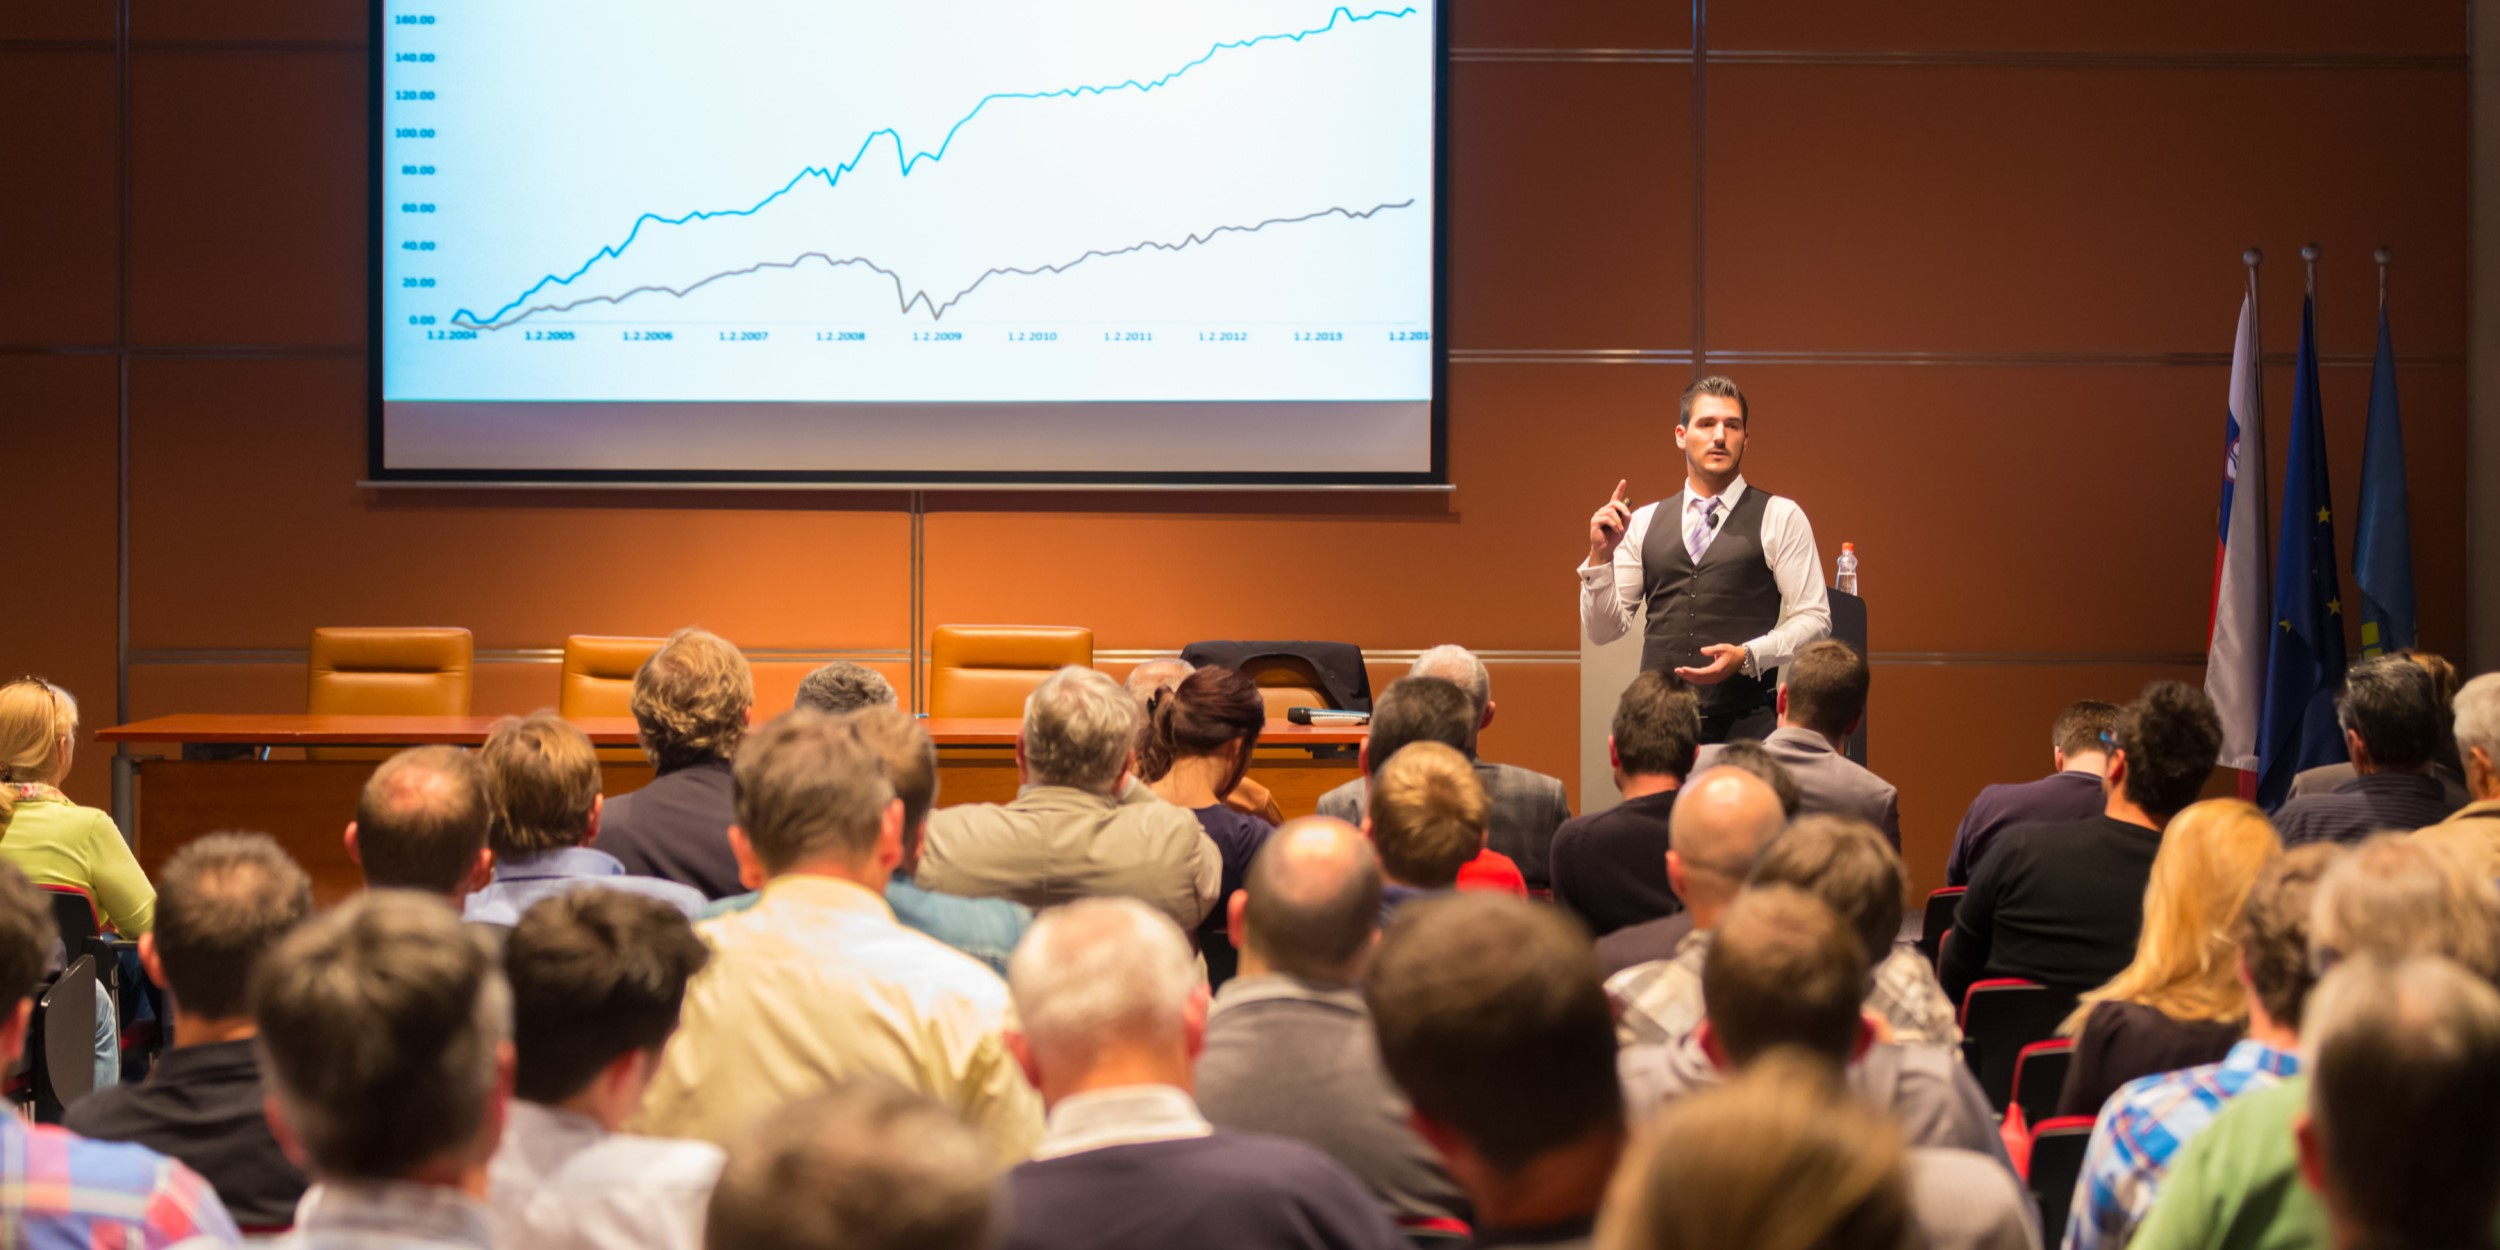
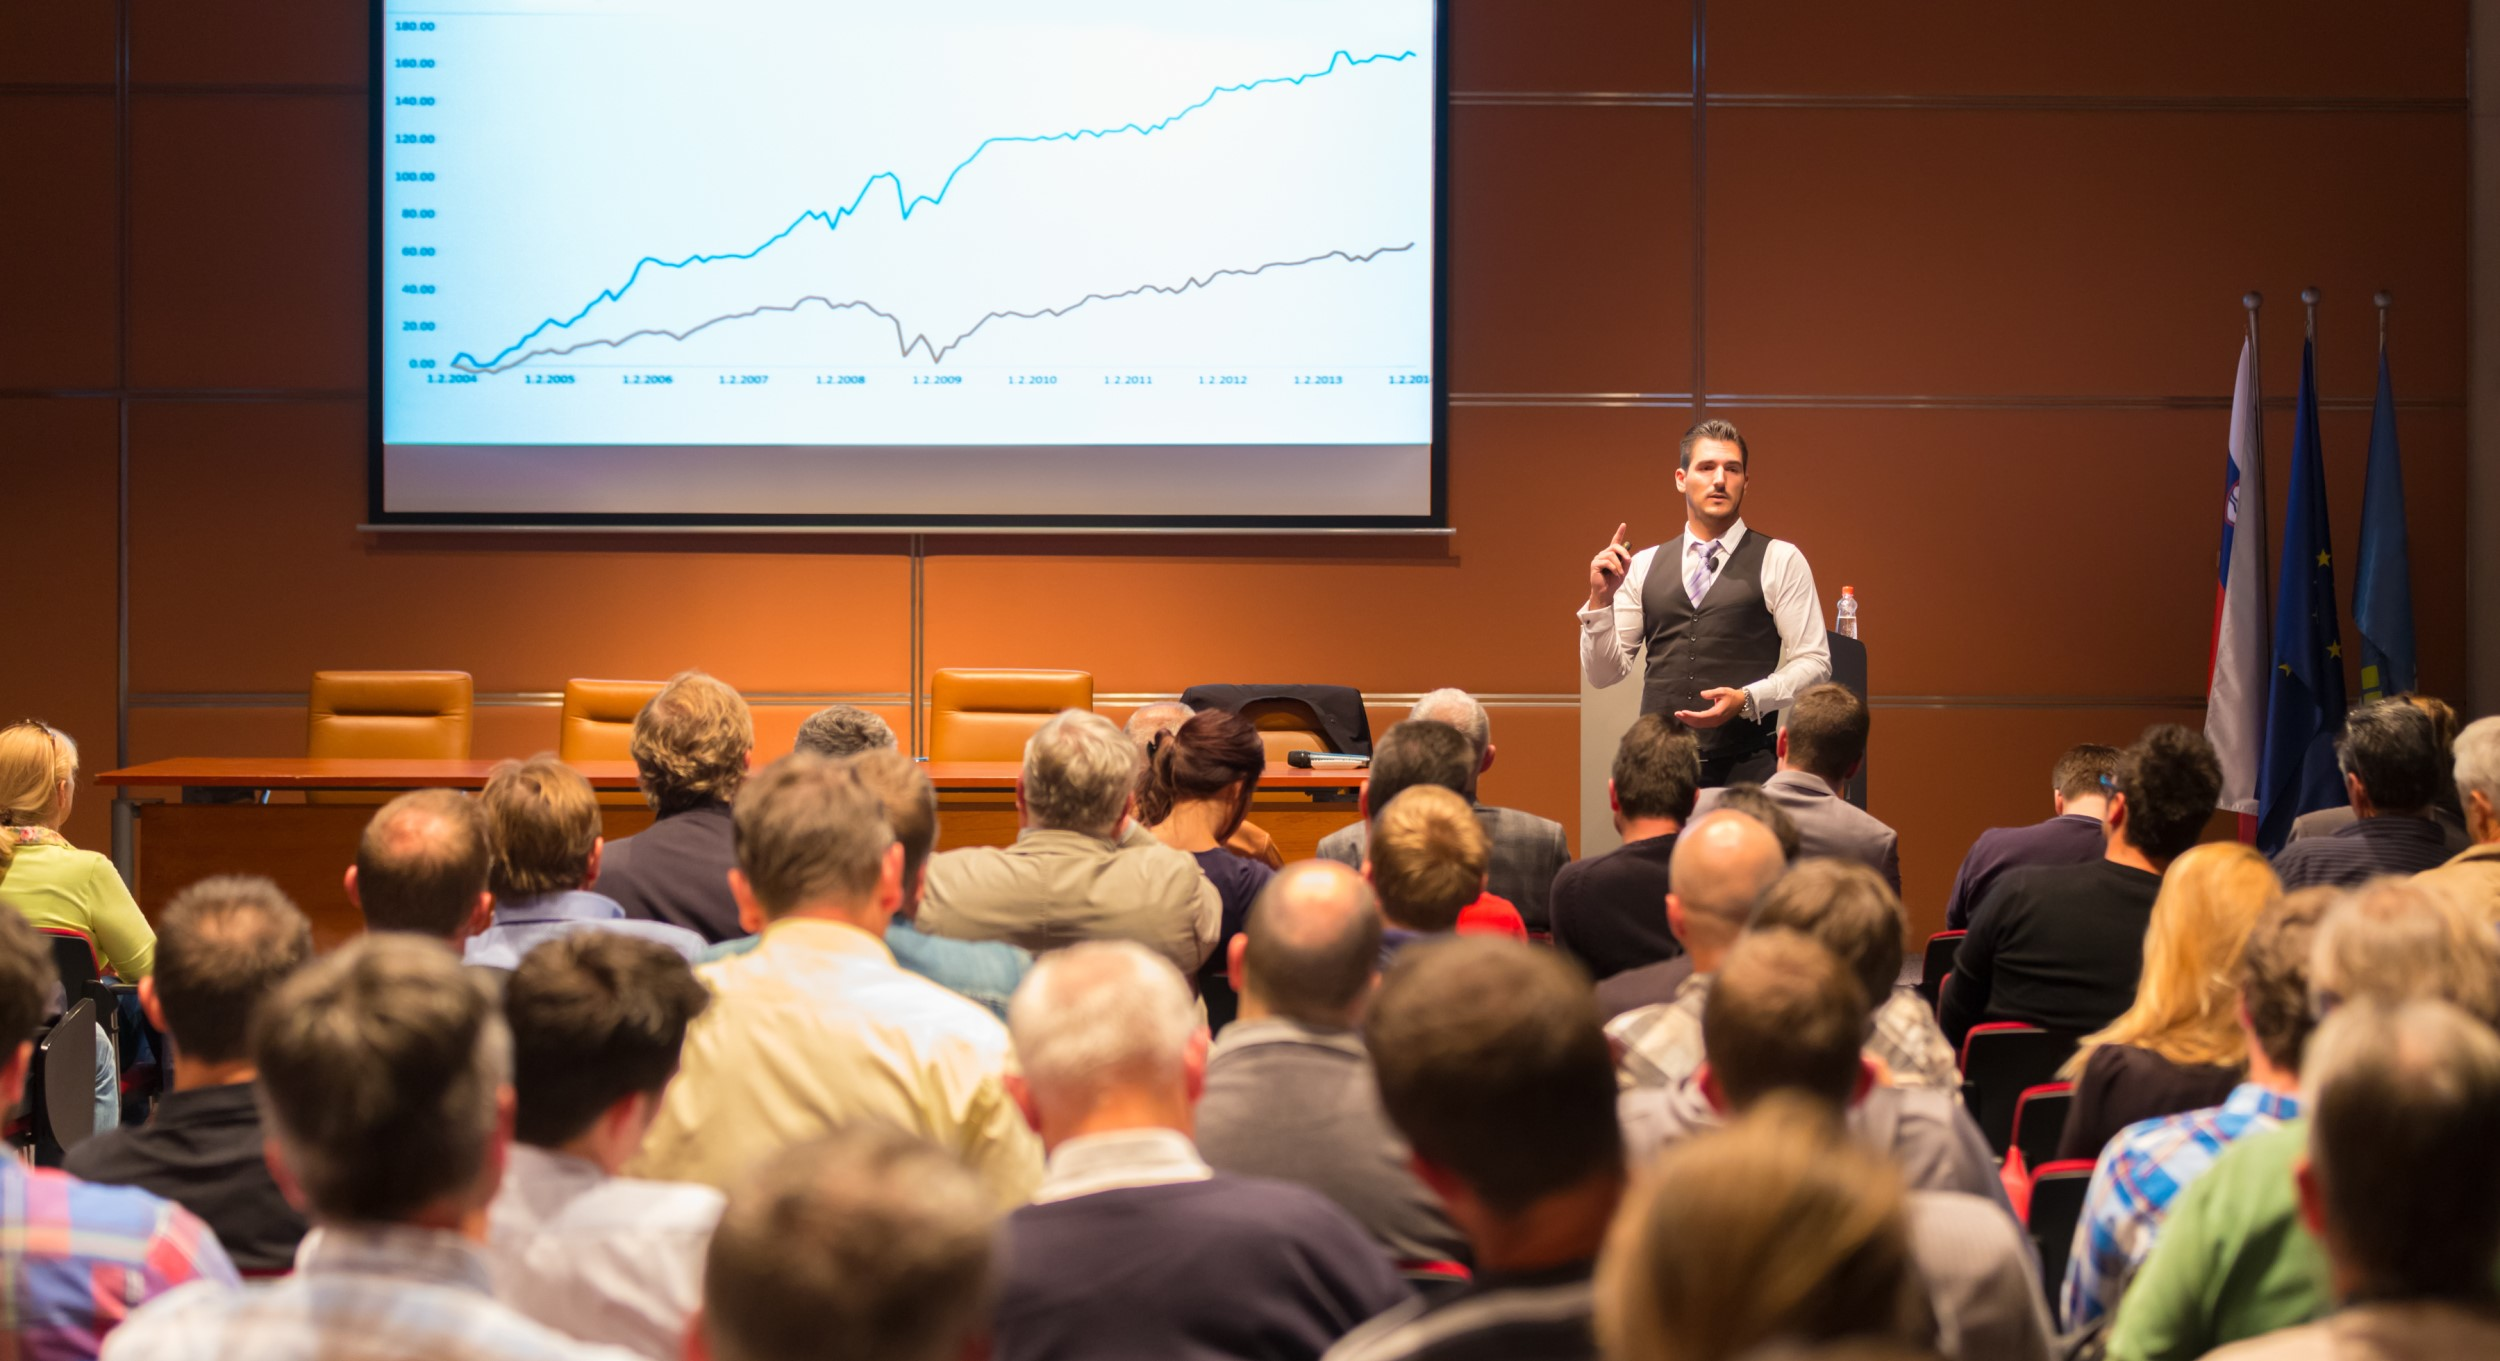
Header image changes

diff --git a/contact.html b/contact.html
@@ -156,7 +156,7 @@
     <!--End Hidden Bar -->
     
     <!--Page Title-->
-    <section class="page-title" style="background-image:url(images/gallery/18.jpg);">
+    <section class="page-title" style="background-image:url(images/Contact-us-header-2.jpg);">
         <div class="auto-container">
             <div class="inner-container clearfix">
                 <div class="title-box">
@@ -339,27 +339,27 @@
                                 <div class="widget-content">
                                     <div class="outer clearfix">
                                         <figure class="image" onclick="window.location.href='project-kenwood.html'">
-                                            <a href="project-kenwood.html" class="lightbox-image" ><img src="images/gallery/1-thumb.jpg" alt=""></a>
+                                            <a href="project-kenwood.html" class="lightbox-image" ><img onclick="window.location.href='project-kenwood.html'" src="images/gallery/1-thumb.jpg" alt=""></a>
                                         </figure>
 
                                         <figure class="image" onclick="window.location.href='project-tulip.html'">
-                                            <a href="project-tulip.html" class="lightbox-image"><img src="images/gallery/2-thumb.jpg" alt=""></a>
+                                            <a href="project-tulip.html" class="lightbox-image"><img onclick="window.location.href='project-tulip.html'" src="images/gallery/2-thumb.jpg" alt=""></a>
                                         </figure>
 
                                         <figure class="image" onclick="window.location.href='project-redwood.html'">
-                                            <a href="project-redwood.html" class="lightbox-image"><img src="images/gallery/3-thumb.jpg" alt=""></a>
+                                            <a href="project-redwood.html" class="lightbox-image"><img onclick="window.location.href='project-redwood.html'" src="images/gallery/3-thumb.jpg" alt=""></a>
                                         </figure>
 
                                         <figure class="image" onclick="window.location.href='project-martin.html'">
-                                            <a href="project-martin.html" class="lightbox-image"><img src="images/gallery/4-thumb.jpg" alt=""></a>
+                                            <a href="project-martin.html" class="lightbox-image"><img onclick="window.location.href='project-martin.html'" src="images/gallery/4-thumb.jpg" alt=""></a>
                                         </figure>
 
                                         <figure class="image" onclick="window.location.href='project-barrett.html'">
-                                            <a href="project-barrett.html" class="lightbox-image"><img src="images/gallery/5-thumb.jpg" alt=""></a>
+                                            <a href="project-barrett.html" class="lightbox-image"><img onclick="window.location.href='project-barrett.html'" src="images/gallery/5-thumb.jpg" alt=""></a>
                                         </figure>
 
                                         <figure class="image"  onclick="window.location.href='project-boxwood.html'">
-                                            <a href="project-boxwood.html" class="lightbox-image"><img src="images/gallery/6-thumb.jpg" alt=""></a>
+                                            <a href="project-boxwood.html" class="lightbox-image"><img onclick="window.location.href='project-boxwood.html'" src="images/gallery/6-thumb.jpg" alt=""></a>
                                         </figure>
                                     </div>
                                 </div>       

diff --git a/css/style.css b/css/style.css
@@ -4136,10 +4136,10 @@ header-style-seven .nav-toggler:hover{
 .page-title{
 	position:relative;
 	padding: 120px 0 120px;
-	background-size:cover;
-	-webkit-background-size: cover;
-    -moz-background-size: cover;
-    -o-background-size: cover;
+	background-size:100% 100%;
+	-webkit-background-size: 100% 100%;
+    -moz-background-size: 100% 100%;
+    -o-background-size: 100% 100%;
 	background-position:center center;
 	background-repeat:no-repeat;
 }

diff --git a/current-projects.html b/current-projects.html
@@ -107,7 +107,7 @@
     <!--End Main Header -->
     
     <!--Page Title-->
-    <section class="page-title" style="background-image:url(images/gallery/fairoaks/img2.jpg);">
+    <section class="page-title" style="background-image:url(images/current-projects-header.jpg); ">
         <div class="auto-container">
             <div class="inner-container clearfix">
                 <div class="title-box">
